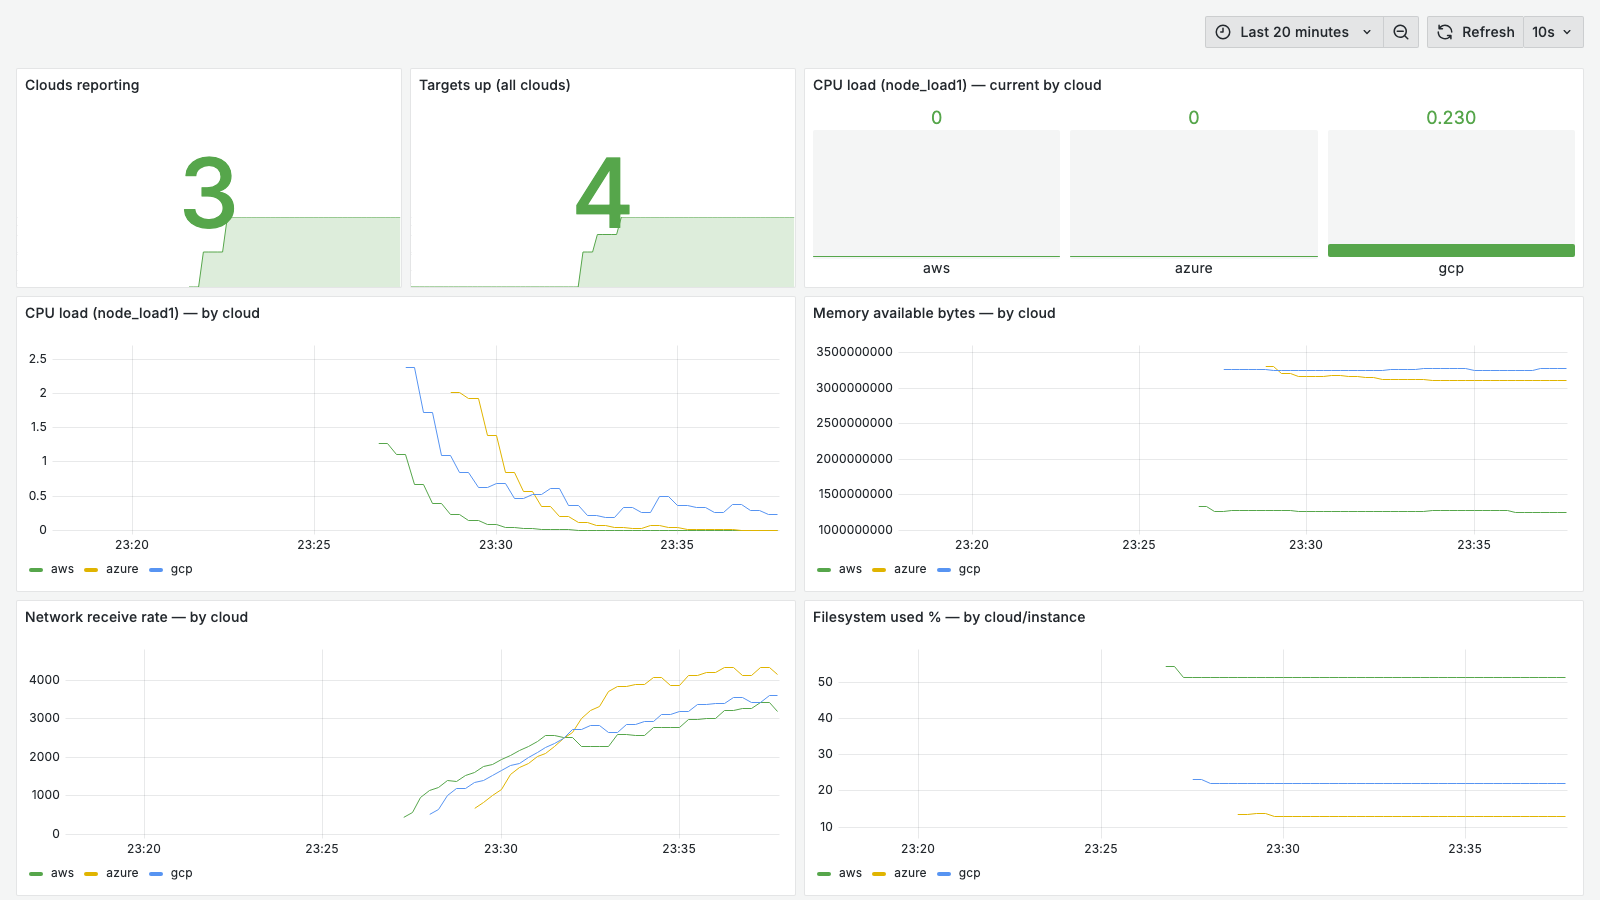
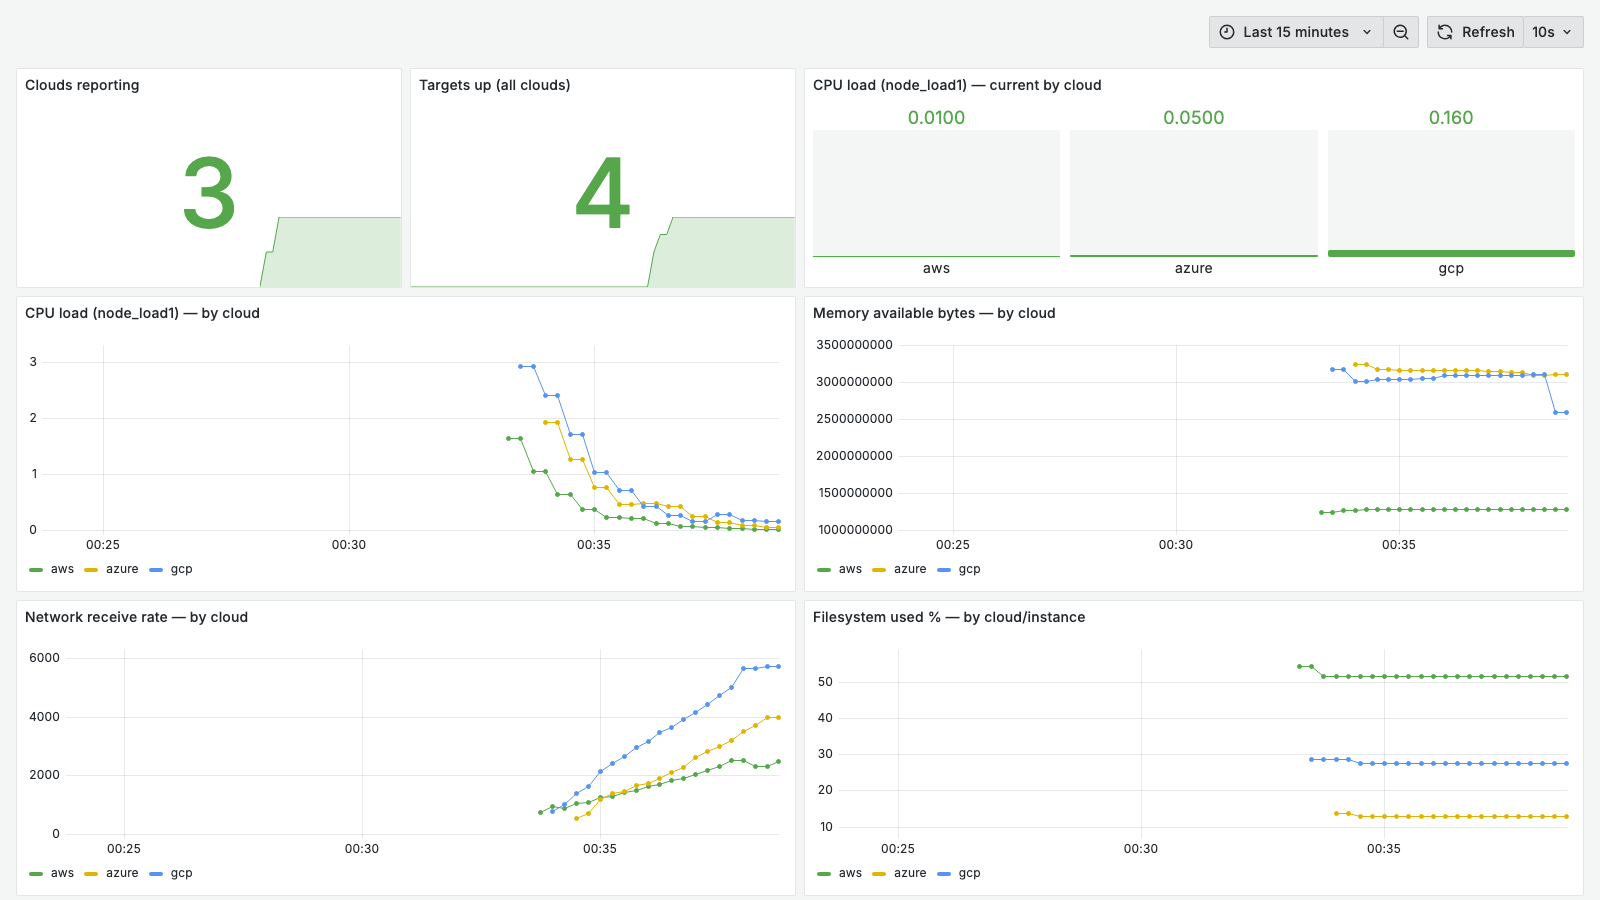
docs: README multicloud — OCI Metrics Explorer MQL + Management Agents view
- Document how to view the unified prometheus_multicloud namespace in the OCI
  Console: Management Agents (one agent per source cloud) and Metrics Explorer
  with the MQL `node_load1[1m].mean()` (auto-splits to one line per cloud).
- Capture the real-world gotchas (alphabetical namespace dropdown, time-window
  filtering of the namespace list, per-compartment data source).
- Refresh the multicloud Grafana screenshot from the latest 3-cloud live run
  (Clouds reporting: 3 — aws/azure/gcp).

diff --git a/README.md b/README.md
@@ -173,9 +173,29 @@ shared central Grafana) produced this dashboard — **Clouds reporting: 3**, wit
 
 ![Multicloud metric collection in Grafana](docs/screenshots/multicloud-grafana.png)
 
-The same metrics landed in **one OCI Monitoring namespace** `prometheus_multicloud`,
-queryable by cloud — e.g. `node_load1[1m].mean()` returns a series per `cloud`
-dimension (`aws`, `azure`, `gcp`). Dashboard JSON: [`otel-destination/dashboards/multicloud.json`](otel-destination/dashboards/multicloud.json).
+The same metrics land in **one OCI Monitoring namespace** `prometheus_multicloud`,
+queryable per cloud. Two ways to see it in the OCI Console (region = where your
+agents publish):
+
+- **Management Agents** (Observability & Management → Management Agents) — lists one
+  Management Agent **per source cloud** (the GCP/Azure/AWS VMs), all `ACTIVE`. The
+  clearest proof that every cloud reports into one OCI tenancy.
+- **Metrics Explorer** (Monitoring → Metrics Explorer → **Add query**) — pick your
+  compartment + namespace **`prometheus_multicloud`**, then this MQL:
+
+  ```
+  node_load1[1m].mean()
+  ```
+
+  OCI MQL has no PromQL-style `by (cloud)` — it auto-splits into **one line per
+  `cloud` dimension**, so this already plots **aws / azure / gcp** as 3 lines. Leave
+  *Aggregate metric streams* **off**. Filter one cloud with `node_load1[1m]{cloud = "aws"}.mean()`.
+
+Gotchas worth knowing: the namespace dropdown is alphabetical (custom namespaces
+sort **after** all `oci_*` — search `prometheus`), it only lists namespaces with
+data **inside the selected time window** (set a recent range), and metrics land in
+the **specific compartment** set on the data source. Data is retained ~93 days.
+Dashboard JSON: [`otel-destination/dashboards/multicloud.json`](otel-destination/dashboards/multicloud.json).
 
 ### Discover instances across clouds
 